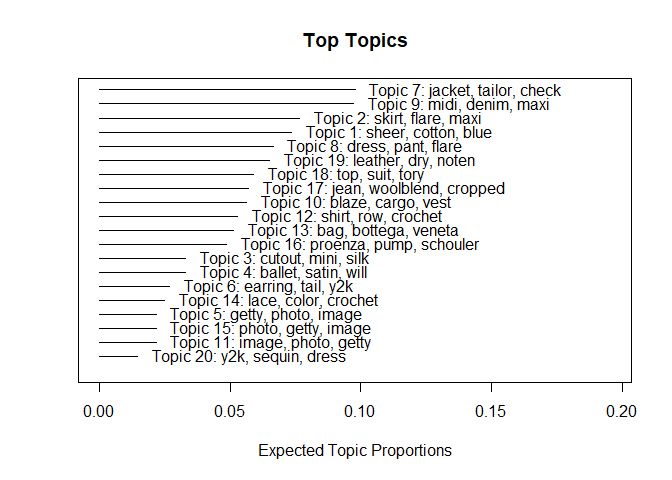
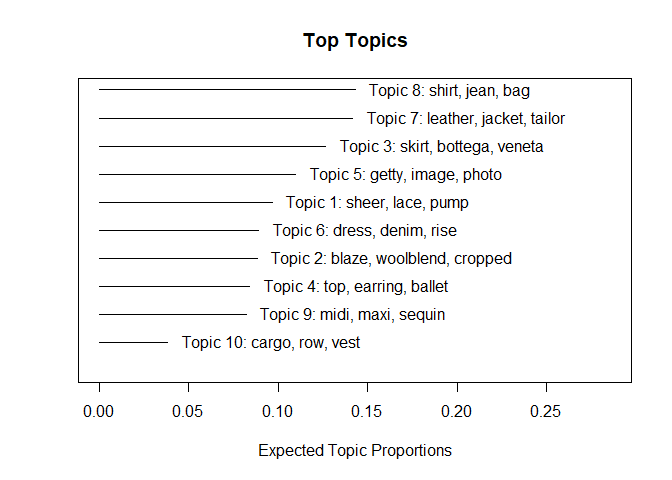
edit

diff --git a/Top_Fashion_Trends_2023.md b/Top_Fashion_Trends_2023.md
@@ -316,9 +316,77 @@ After viewing the results of the kTest, the results are fairly
 interesting. Specifically, it is interesting to see the semantic
 coherence be so high with 20 topics. As the ideal topic selection would
 be the number of topics with highest semantic coherence and lowest
-residuals, we see the model suggests to select 20 topics. However, as
-this is a very high number of topics, I also tested using the next
-highest topics, 5.
+residuals, we see the model suggests to select 10 topics. However, for
+some variation, I also tested using the next best result: 3.
+
+**Option 1 - Test 10 Topics:**
+
+    topics10 <- stm(documents = fashionPrep$documents, 
+                 vocab = fashionPrep$vocab, seed = 1001,
+                 K = 10, verbose = FALSE)
+
+Topic proportions plot at 10 topics:
+
+    plot(topics10)
+
+![](Top_Fashion_Trends_2023_files/figure-markdown_strict/unnamed-chunk-19-1.png)
+
+See what emerges from each topic by evaluating high prob & FREX words
+
+    top10_topic_list <- labelTopics(topics10)
+
+    print(top10_topic_list)
+
+    ## Topic 1 Top Words:
+    ##       Highest Prob: sheer, lace, pump, blue, y2k, prada, oversized 
+    ##       FREX: sheer, lace, pump, blue, y2k, prada, oversized 
+    ##       Lift: blue, lace, pump, sheer, y2k, prada, oversized 
+    ##       Score: sheer, blue, pump, y2k, lace, prada, oversized 
+    ## Topic 2 Top Words:
+    ##       Highest Prob: blaze, woolblend, cropped, flare, saint, oversized, pant 
+    ##       FREX: blaze, woolblend, cropped, flare, saint, oversized, jean 
+    ##       Lift: blaze, cropped, flare, saint, woolblend, oversized, pant 
+    ##       Score: blaze, woolblend, cropped, flare, saint, oversized, pant 
+    ## Topic 3 Top Words:
+    ##       Highest Prob: skirt, bottega, veneta, silk, mini, cutout, maxi 
+    ##       FREX: bottega, veneta, silk, skirt, mini, cutout, maxi 
+    ##       Lift: silk, bottega, veneta, mini, cutout, skirt, maxi 
+    ##       Score: skirt, veneta, bottega, mini, cutout, silk, maxi 
+    ## Topic 4 Top Words:
+    ##       Highest Prob: top, earring, ballet, satin, suit, will, color 
+    ##       FREX: earring, ballet, satin, suit, top, will, skirt 
+    ##       Lift: ballet, earring, satin, suit, will, top, color 
+    ##       Score: top, earring, will, suit, satin, ballet, color 
+    ## Topic 5 Top Words:
+    ##       Highest Prob: getty, image, photo, cotton, crochet, dry, noten 
+    ##       FREX: getty, image, photo, cotton, crochet, dry, noten 
+    ##       Lift: cotton, crochet, dry, getty, image, noten, photo 
+    ##       Score: getty, image, photo, dry, noten, van, cotton 
+    ## Topic 6 Top Words:
+    ##       Highest Prob: dress, denim, rise, tail, cutout, maxi, midi 
+    ##       FREX: dress, denim, rise, tail, cutout, maxi, skirt 
+    ##       Lift: denim, dress, rise, tail, cutout, maxi, mini 
+    ##       Score: dress, denim, rise, tail, cutout, maxi, midi 
+    ## Topic 7 Top Words:
+    ##       Highest Prob: leather, jacket, tailor, check, pink, wool, tory 
+    ##       FREX: leather, jacket, tailor, check, pink, wool, tory 
+    ##       Lift: check, jacket, leather, pink, tailor, wool, tory 
+    ##       Score: jacket, leather, tailor, wool, check, pink, tory 
+    ## Topic 8 Top Words:
+    ##       Highest Prob: shirt, jean, bag, pant, proenza, schouler, mule 
+    ##       FREX: bag, shirt, proenza, schouler, pant, jean, mule 
+    ##       Lift: mule, proenza, schouler, bag, pant, shirt, jean 
+    ##       Score: jean, shirt, pant, proenza, schouler, bag, mule 
+    ## Topic 9 Top Words:
+    ##       Highest Prob: midi, maxi, sequin, color, skirt, cutout, tory 
+    ##       FREX: midi, color, sequin, maxi, skirt, cutout, tory 
+    ##       Lift: color, midi, sequin, maxi, skirt, cutout, tory 
+    ##       Score: midi, maxi, sequin, color, skirt, cutout, tory 
+    ## Topic 10 Top Words:
+    ##       Highest Prob: cargo, row, vest, jean, shirt, pant, bag 
+    ##       FREX: cargo, row, vest, jean, shirt, oversized, pant 
+    ##       Lift: cargo, row, vest, jean, shirt, pant, bag 
+    ##       Score: cargo, vest, row, jean, shirt, pant, bag
 
 **Option 1 - Test 20 Topics:**
 
@@ -330,7 +398,7 @@ Topic proportions plot at 20 topics:
 
     plot(topics20)
 
-![](Top_Fashion_Trends_2023_files/figure-markdown_strict/unnamed-chunk-19-1.png)
+![](Top_Fashion_Trends_2023_files/figure-markdown_strict/unnamed-chunk-22-1.png)
 
 See what emerges from each topic by evaluating high prob & FREX words
 
@@ -439,17 +507,56 @@ See what emerges from each topic by evaluating high prob & FREX words
     ##       Lift: y2k, sequin, dress, flare, skirt, crochet, pant 
     ##       Score: y2k, sequin, dress, flare, skirt, pant, crochet
 
+**Option 2 - Test 4 Topics:**
+
+    topics4 <- stm(documents = fashionPrep$documents, 
+                 vocab = fashionPrep$vocab, seed = 1001,
+                 K = 4, verbose = FALSE)
+
+Topic proportions plot at 4 topics:
+
+    plot(topics4)
+
+![](Top_Fashion_Trends_2023_files/figure-markdown_strict/unnamed-chunk-25-1.png)
+
+See what emerges from each topic by evaluating high prob & FREX words
+
+    top4_topic_list <- labelTopics(topics4)
+
+    print(top4_topic_list)
+
+    ## Topic 1 Top Words:
+    ##       Highest Prob: jean, cotton, tailor, cargo, earring, blue, row 
+    ##       FREX: jean, cotton, tailor, cargo, earring, blue, row 
+    ##       Lift: cargo, earring, blue, cotton, jean, row, tailor 
+    ##       Score: jean, tailor, cotton, earring, cargo, blue, row 
+    ## Topic 2 Top Words:
+    ##       Highest Prob: dress, midi, shirt, denim, woolblend, lace, tail 
+    ##       FREX: dress, lace, tail, woolblend, rise, midi, denim 
+    ##       Lift: tail, lace, rise, dress, woolblend, cropped, flare 
+    ##       Score: midi, dress, denim, shirt, woolblend, lace, rise 
+    ## Topic 3 Top Words:
+    ##       Highest Prob: jacket, getty, image, photo, top, bag, pump 
+    ##       FREX: getty, image, photo, top, pump, dry, noten 
+    ##       Lift: dry, getty, image, noten, photo, pump, top 
+    ##       Score: getty, image, photo, top, jacket, dry, noten 
+    ## Topic 4 Top Words:
+    ##       Highest Prob: skirt, leather, blaze, sheer, maxi, pant, bottega 
+    ##       FREX: blaze, proenza, schouler, maxi, skirt, bottega, veneta 
+    ##       Lift: proenza, schouler, will, check, bottega, veneta, maxi 
+    ##       Score: skirt, blaze, maxi, leather, sheer, bottega, veneta
+
 **Option 2 - Test 5 Topics:**
 
     topics5 <- stm(documents = fashionPrep$documents, 
                  vocab = fashionPrep$vocab, seed = 1001,
                  K = 5, verbose = FALSE)
 
-Topic proportions plot at 4 topics:
+Topic proportions plot at 5 topics:
 
     plot(topics5)
 
-![](Top_Fashion_Trends_2023_files/figure-markdown_strict/unnamed-chunk-22-1.png)
+![](Top_Fashion_Trends_2023_files/figure-markdown_strict/unnamed-chunk-28-1.png)
 
 See what emerges from each topic by evaluating high prob & FREX words
 
